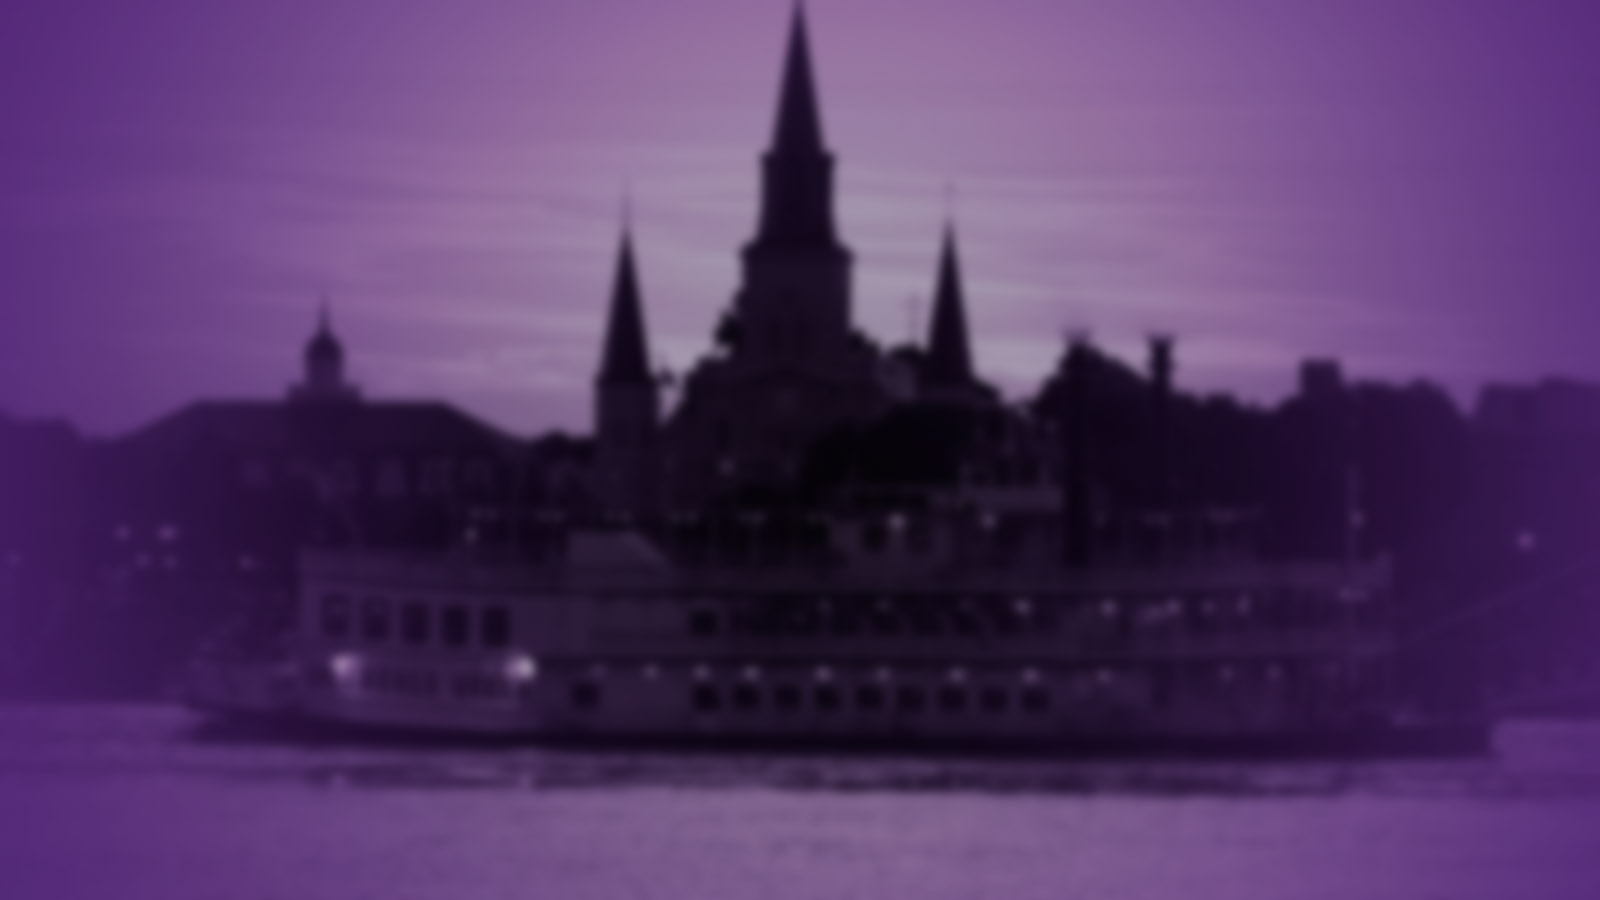
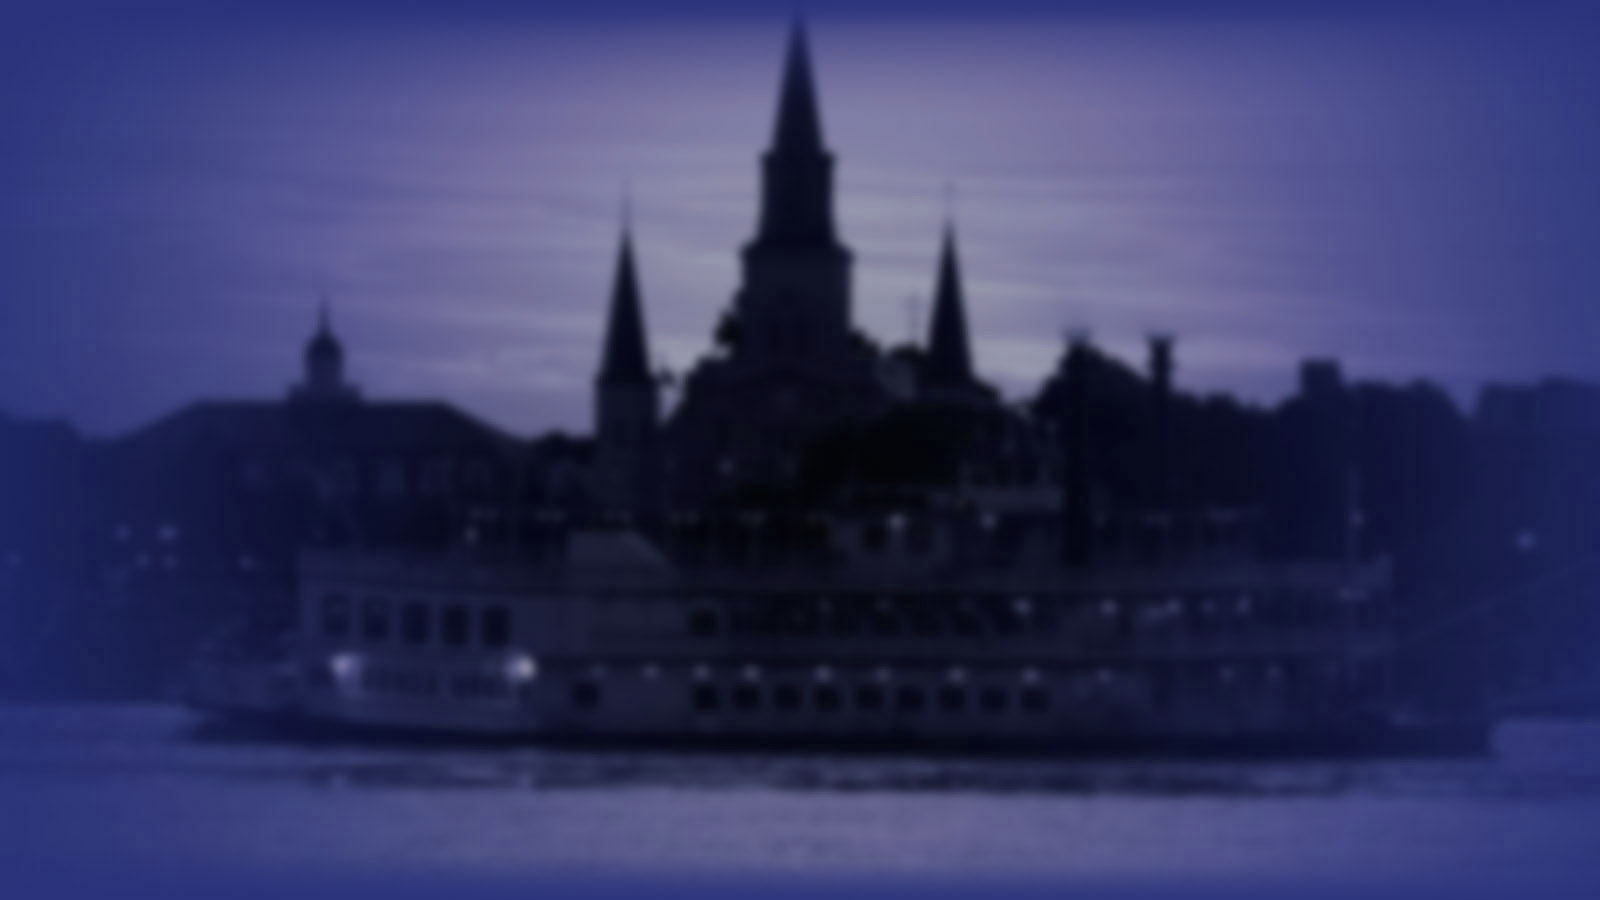
Update background styling

diff --git a/index.html b/index.html
@@ -41,11 +41,11 @@
 		<div class="reveal">
       <div class="footer">
         <div class="branding--logo">
-            <span class="logo__image"><img src="/images/conference_logo.png" alt="Conference logo" height="55px" /></span>
+            <span class="logo__image"><img src="images/conference_logo.png" alt="Conference logo" height="55px" /></span>
             <p class="logo__site-name">#DrupalCon</p>
         </div>
         <div class="company--logo">
-            <span class="logo__image"><img src="/images/genuine_logo_white.png" alt="Genuine" height="40px" width="40px" /></span>
+            <span class="logo__image"><img src="images/genuine_logo_white.png" alt="Genuine" height="40px" width="40px" /></span>
             <p class="logo__site-name">@WeAreGenuine</p>
         </div>
         <div class="session--info">

diff --git a/css/miles-color.css b/css/miles-color.css
@@ -7,7 +7,7 @@ section.has-light-background, section.has-light-background h1, section.has-light
 }
 
 body {
-  background-color: #197f9f;
+  background-color: #2a337b;
 }
 
 ::selection {
